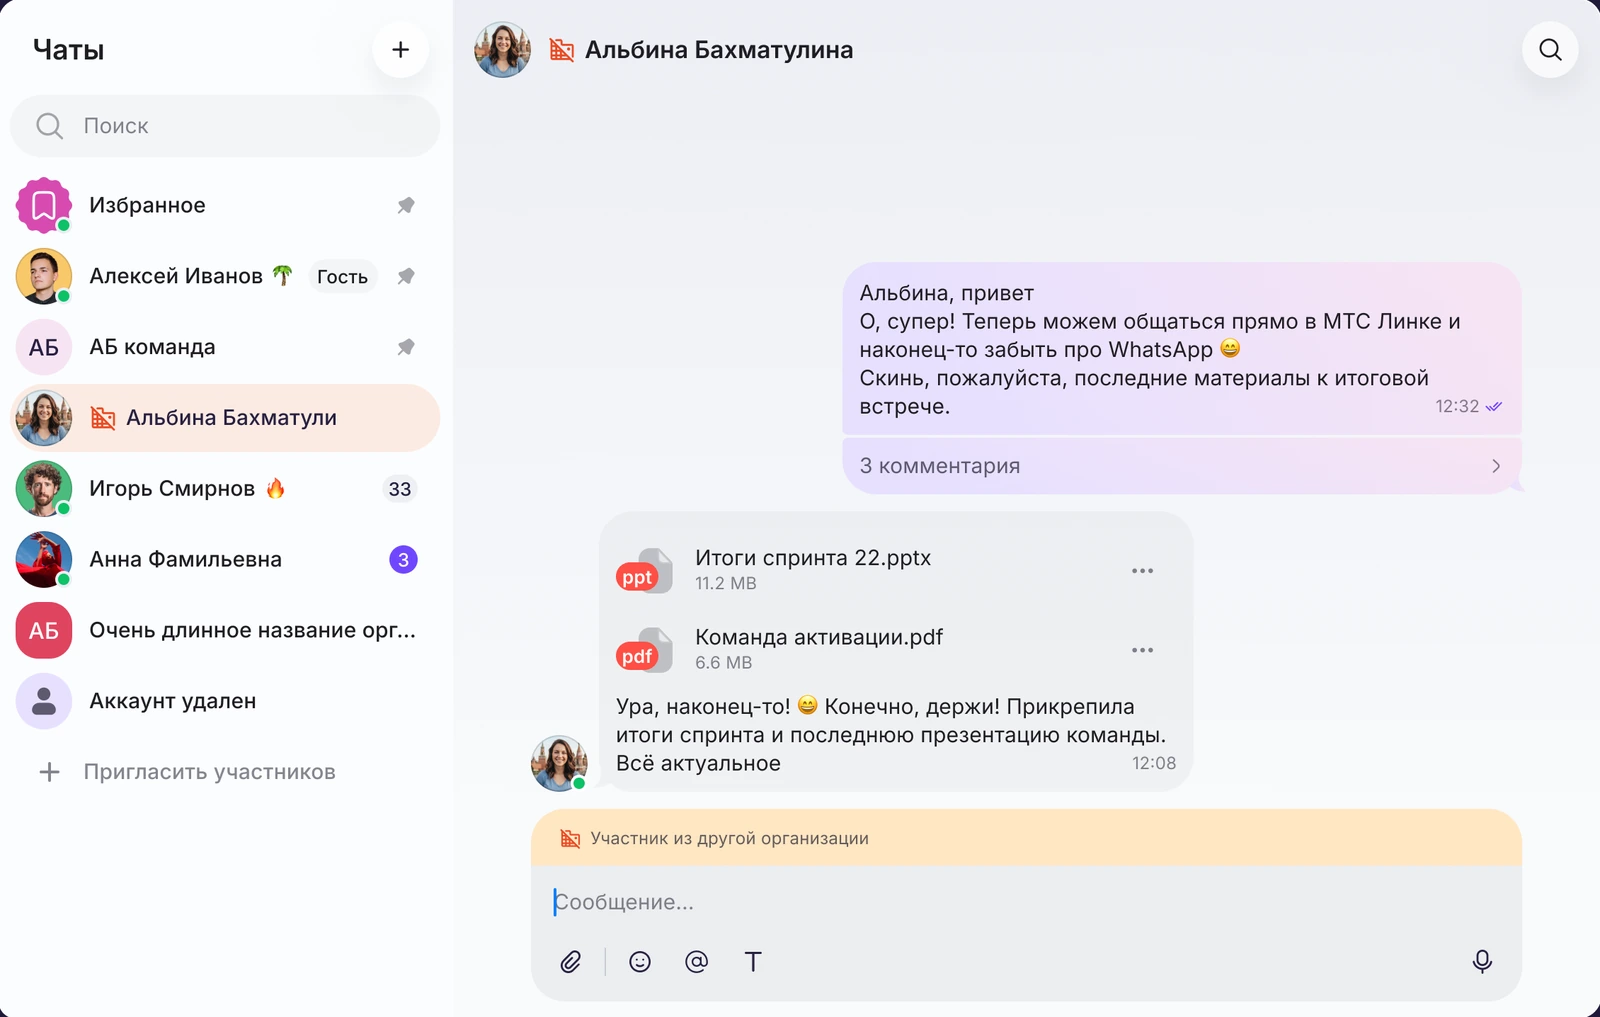
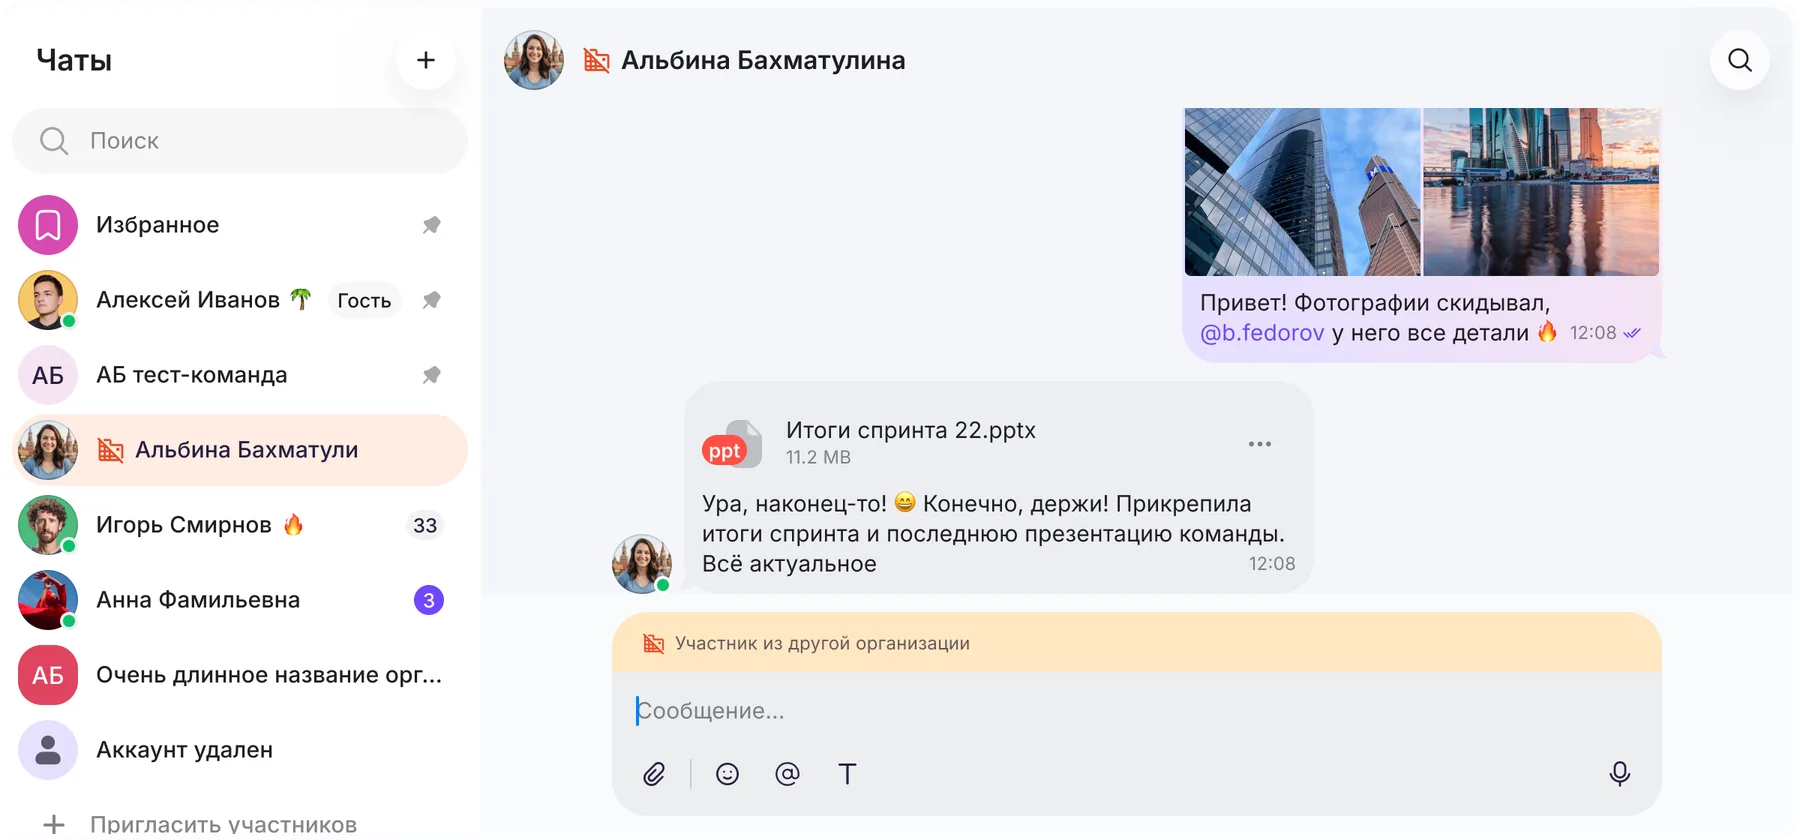
Обновление сайта: Папки без лида, hover у ссылок, новая обложка Федерации
Claude-Session: https://claude.ai/code/session_01Uttb2EWukKFohvePYsc134

diff --git a/site.js b/site.js
@@ -108,11 +108,11 @@ const CASES = {
       'В задачах, связанных с безопасностью, важна не только чистота интерфейса, но и цена ошибки. Иногда заметная индикация полезнее ненавязчивого решения.',
       'Для меня этот проект про баланс привычных сценариев, прав доступа и безопасности: пользователь должен работать как обычно, но всегда понимать, когда выходит за границы своей организации.'
     ],
-    tileFrame:'assets/images/federation/00-cover.webp',
+    tileFrame:'assets/images/federation/00-cover.webp?v=4',
     b:{ headline:'МТС Линк: федерация для 15+ клиентов и 30+ млн ₽ потенциальных контрактов', lead:'Федерация была блокером покупки для 15+ клиентов. Как единственный дизайнер в рабочей группе я проработал межкорпоративные сценарии, роли и права доступа, спроектировал клиентскую часть для Web, iOS и Android и проверил ключевые решения на пользователях', /* «Роль в проекте» / «Использовал» скрыты по решению автора; вернуть — переименовать rowsHidden → rows */ rowsHidden:[['Роль в проекте','Senior Product Designer · клиентская часть, Web, iOS и Android'],['Использовал','Карта процессов, качественные исследования, UX‑тесты, моделирование ролей и прав доступа']] }
   },
   folders: {
-    slug:'folders', company:'МТС Линк', type:'Папки для чатов и каналов', year:'2026', tone:'plum', layout:'main',
+    slug:'folders', company:'МТС Линк', type:'Папки для чатов и каналов', year:'2026', tone:'plum', layout:'main', hideLead:true,
     tileFrame:'assets/images/folders/00-cover.webp?v=3',
     chip:'Корпоративные коммуникации',
     title:'Как навести порядок в чатах и каналах',
@@ -370,7 +370,7 @@ const SKZ = {
       ...rowsOf(3, 486, 74.5, y => [R(550, y, 26, 26, 8, '#E4E7EE'), R(611, y, 90, 16, 6, '#E4E7EE'), R(611, y + 24, 300, 12, 5, '#E4E7EE'), R(995, y + 8, 70, 36, 18, '#DAD6F3')])] },
     { x: 498, y: 708, w: 608, h: 144, bg: '#FDFDFE', rad: '0 0 44px 44px', s: [R(536, 726, 200, 20), R(515, 758, 570, 74, 30, '#F1F2F6'), R(536, 784, 170, 20, 6, '#E4E7EE')] }
   ] },
-  federation: { w: 1600, h: 1017, zones: [
+  federation: { w: 1600, h: 1017, ar: 1800 / 840, zones: [
     { x: 0, y: 0, w: 452, h: 1017, bg: '#fff', s: [R(34, 36, 72, 26, 8), R(372, 22, 56, 56, 28), R(10, 95, 430, 62, 31),
       ...rowsOf(7, 177, 71, y => [R(16, y, 56, 56, 28), R(90, y + 14, 190, 18, 7), R(90, y + 38, 110, 12, 5)]), R(38, 760, 260, 18, 7)] },
     { x: 454, y: 0, w: 1146, h: 800, bg: '#FDFCFE', s: [R(474, 22, 56, 56, 28), R(585, 36, 270, 26, 8), R(1522, 22, 56, 56, 28),
@@ -400,7 +400,7 @@ const SKZ = {
 };
 const skCover = (p, alt) => {
   const K = SKZ[p.slug]; if (!K) return '';
-  return `<div class="kcover kcover--sk" style="--k-step:calc(${(1.7 / (K.zones.length - 1)).toFixed(3)}s / var(--sp))" role="img"aria-label="${esc(alt)}"><div class="kcover__stage" style="aspect-ratio:${K.w}/${K.h}"><img class="kcover__base" src="${p.tileFrame}" alt="" loading="lazy" data-ph="hide">` +
+  return `<div class="kcover kcover--sk" style="--k-step:calc(${(1.7 / (K.zones.length - 1)).toFixed(3)}s / var(--sp))" role="img"aria-label="${esc(alt)}"><div class="kcover__stage" style="aspect-ratio:${K.ar || K.w / K.h}"><img class="kcover__base" src="${p.tileFrame}" alt="" loading="lazy" data-ph="hide">` +
     K.zones.map((z, i) => `<div class="kcover__sk" style="left:${(z.x / K.w * 100).toFixed(3)}%;top:${(z.y / K.h * 100).toFixed(3)}%;width:${(z.w / K.w * 100).toFixed(3)}%;height:${(z.h / K.h * 100).toFixed(3)}%;background:${z.bg};${z.rad ? `border-radius:${z.rad};` : ''}--i:${i}"><svg viewBox="0 0 ${z.w} ${z.h}" preserveAspectRatio="none" aria-hidden="true">${z.s.map(([x, y, w, h, r, f]) => `<rect x="${(x - z.x).toFixed(1)}" y="${(y - z.y).toFixed(1)}" width="${w}" height="${h}" rx="${r}" fill="${f || '#E8EDF2'}"/>`).join('')}</svg></div>`).join('') + '</div></div>';
 };
 function kcard(p, variant) {

diff --git a/index.html b/index.html
@@ -9,8 +9,8 @@
 <link rel="preconnect" href="https://fonts.googleapis.com">
 <link rel="preconnect" href="https://fonts.gstatic.com" crossorigin>
 <link href="https://fonts.googleapis.com/css2?family=Geist:wght@400;500;600&family=Golos+Text:wght@400;500;600&family=Unbounded:wght@500;600;700&family=Literata:wght@500;600&family=IBM+Plex+Sans:wght@400;500;600&family=Inter:wght@400;500;600&family=Permanent+Marker&display=swap" rel="stylesheet">
-<link rel="stylesheet" href="style.css?v=76">
-<script src="site.js?v=89" defer></script>
+<link rel="stylesheet" href="style.css?v=77">
+<script src="site.js?v=94" defer></script>
 </head>
 <body>
 <svg width="0" height="0" style="position:absolute" aria-hidden="true" focusable="false"><filter id="displace-1" x="-50%" y="-50%" width="200%" height="200%"><feTurbulence type="turbulence" baseFrequency="0.03" numOctaves="3" seed="1" result="turbulence"/><feDisplacementMap in="SourceGraphic" in2="turbulence" scale="1.4" xChannelSelector="R" yChannelSelector="G"/></filter><filter id="displace-2" x="-50%" y="-50%" width="200%" height="200%"><feTurbulence type="turbulence" baseFrequency="0.03" numOctaves="3" seed="2" result="turbulence"/><feDisplacementMap in="SourceGraphic" in2="turbulence" scale="1.4" xChannelSelector="R" yChannelSelector="G"/></filter><filter id="displace-3" x="-50%" y="-50%" width="200%" height="200%"><feTurbulence type="turbulence" baseFrequency="0.03" numOctaves="3" seed="3" result="turbulence"/><feDisplacementMap in="SourceGraphic" in2="turbulence" scale="1.4" xChannelSelector="R" yChannelSelector="G"/></filter><filter id="displace-4" x="-50%" y="-50%" width="200%" height="200%"><feTurbulence type="turbulence" baseFrequency="0.03" numOctaves="3" seed="4" result="turbulence"/><feDisplacementMap in="SourceGraphic" in2="turbulence" scale="1.4" xChannelSelector="R" yChannelSelector="G"/></filter><filter id="displace-5" x="-50%" y="-50%" width="200%" height="200%"><feTurbulence type="turbulence" baseFrequency="0.03" numOctaves="3" seed="5" result="turbulence"/><feDisplacementMap in="SourceGraphic" in2="turbulence" scale="1.4" xChannelSelector="R" yChannelSelector="G"/></filter></svg>

diff --git a/style.css b/style.css
@@ -1304,6 +1304,13 @@ html[data-variant="b"]{overflow-x:clip}
 .lnk__ar{display:inline-block;margin-left:5px;font-size:.78em;line-height:1;text-decoration:none}
 [data-variant="b"] .kcard__btns .pill--outline span{font-size:11px;line-height:1}
 
+/* hover у внешних ссылок в таблице фактов (исследование, сборка, Behance…): мягкая подложка, стрелка чуть уходит вверх-вправо */
+[data-variant="b"] .case__sheet-facts dd a{width:fit-content;max-width:100%;border-radius:4px;transition:background-color .18s ease,box-shadow .18s ease}
+[data-variant="b"] .case__sheet-facts dd a:hover,[data-variant="b"] .case__sheet-facts dd a:focus-visible{background-color:rgba(15,15,15,.07);box-shadow:0 0 0 3px rgba(15,15,15,.07)}
+.lnk__ar{transition:transform .18s ease}
+a:hover > .lnk__ar,a:focus-visible > .lnk__ar{transform:translate(1px,-1px)}
+@media (prefers-reduced-motion:reduce){[data-variant="b"] .case__sheet-facts dd a,.lnk__ar{transition:none}}
+
 /* зум изображения в шторке */
 .zoom{position:fixed;inset:0;z-index:500;background:rgba(15,15,15,.82);display:grid;place-items:center;padding:24px;cursor:zoom-out}
 .zoom__img{max-width:96vw;max-height:92vh;width:auto;height:auto;object-fit:contain;border-radius:12px;background:#fff;cursor:default;box-shadow:0 20px 60px rgba(0,0,0,.4)}
